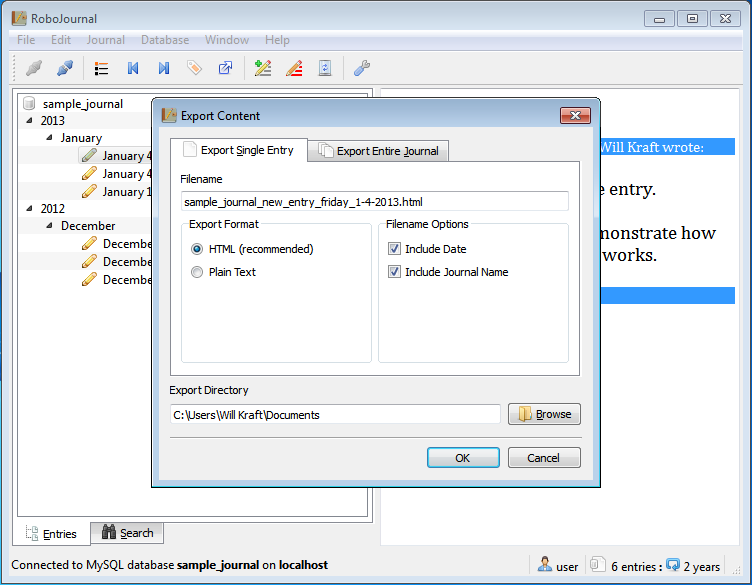
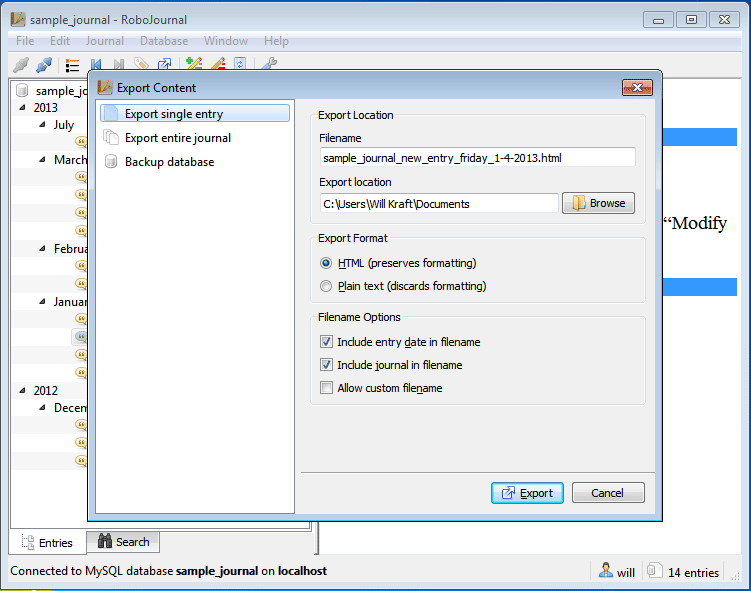
began revision on entry exporter documentation

Changed region(s): [[0.0, 0.0, 1.0, 1.0], [0.7044, 0.9538, 1.0, 1.0], [0.5819, 0.9846, 0.6431, 1.0]]

diff --git a/doc/export.html b/doc/export.html
@@ -46,168 +46,89 @@ discrete files on your hard drive; instead, they are abstract entities you work
 with through an intermediary program like RoboJournal. The intermediary program
 relays data between the client (your computer) and the actual journal database
 residing on the host. While the journal appears to be on your computer, this is
-not truly the case unless you are running the database server on localhost. </p>
+not truly the case unless you are running the database server on localhost.
+Since the journal databases are abstract entities, it is normally difficult to
+extract data from them unless you dump the entire database to disk as a file
+(the most common backup method). Fortunately, RoboJournal's Entry Exporter tool
+provides a way to directly extract journal content (in part or in whole) from
+its database in a form that can be easily backed up or copied.</p>
 
-<p>Since the journal databases are abstract entities, it is normally difficult
-to extract data from them unless you dump the entire database to disk as a file
-(the most common backup method). Fortunately, RoboJournal provides a way to
-directly extract journal content (in part or in whole) from its database in a
-form that can be easily backed up or copied.</p>
+<p>RoboJournal's entry exporter has been dramatically expanded and re-designed
+in version 0.5 (and later). The new design features a page-based interface,
+much like the new <a href="getting_started.html#create">Journal Creator</a> and
+the new <a href="preferences.html">Preferences</a> window introduced in version
+0.4. Unlike the old entry exporter (which separated functionality by use of a
+tabbed widget in a way that could potentially be confusing) the new design
+separates functionality by page; each page is dedicated to a a specific type of
+export operation. The Export Content window always displays the <strong>Export
+single entry</strong> page by default. </p>
 
-<h3 id="Formats">Export Formats</h3>
+<p>The entry exporter is invoked the same was as in previous versions. Select
+the entry you wish to export (or any entry, if you wish to export the entire
+journal) and click the Export Entry toolbar button:<img alt="Figure 1"
+src="img/screens/mw_export1.png" width="750" height="584"
+class="screenshot"><span class="caption">Figure 1: Select an entry (indicated
+by the large oval) and click the <strong>Export Content</strong> toolbar button
+to display the Export Content dialog.</span></p>
 
-<p>RoboJournal currently supports two export formats for your entry data. Both
-formats are universally-compatible with every operating system and many
-handheld devices as well. </p>
-
-<h4>HTML Export</h4>
-
-<p>HTML formatting causes the exported section(s) to be saved as HTML files
-that can be displayed in any web browser. Since RoboJournal already stores
-entries in HTML format, this option preserves all existing formatting.
-Therefore, it is the recommended format for both individual entries and full
-journal exports. The appearance and function of HTML output documents are
-controlled through <a href="preferences.html#export_settings">current
-settings</a> found in the RoboJournal Preferences. </p>
-
-<h4>Plain Text Export</h4>
-
-<p>Plain text export causes the exported section(s) to be formatted as plain
-text files meant to be read with a text editor like Vim or Notepad. RoboJournal
-automatically formats the text file for the operating system it is currently
-running on (such as using the proper linebreak character).</p>
-
-<h3 id="Anatomy">Export Options and Settings</h3>
-
-<p>The Export Content window interface consists of two tabs that are very
-similar to each other yet work very differently. The <strong>Export Single
-Entry</strong> tab contains options applicable to individual entries while the
-options on the <strong>Export Entire Journal</strong> tab affect the entire
-journal. The following tables list and describe the options found on the Export
-Content window based on the tab on which they are found. </p>
-
-<p>The <strong>Export Location</strong> field displays the folder where all
-exported entries are to be placed. This field is always visible no matter which
-tab is selected. </p>
-
-<h4><strong><em>Export Single Entry</em></strong> Tab</h4>
-
-<table border="0">
-  <col>
-  <col>
-  <tbody>
-    <tr>
-      <td class="left">Filename</td>
-      <td class="right">The <strong>Filename</strong> field contains the name
-        to be applied to the entry you have selected for export. The length and
-        complexity of the filename are determined by the options you currently
-        have selected. The base filename is determined by the title of the
-        entry to be exported. RoboJournal automatically strips out all
-        characters (like colons or forward/backward slashes) that would produce
-        an illegal filename on Windows or Unix if such characters are found in
-        the entry title. </td>
-    </tr>
-    <tr>
-      <td class="left">Export Format</td>
-      <td class="right">The options in this group determine what type of file
-        is produced by the export process. Clicking the <strong>HTML
-        (recommended)</strong> button causes RoboJournal to export the entry as
-        a web document while the <strong>Plain Text</strong> option produces a
-        plain text file.</td>
-    </tr>
-    <tr>
-      <td class="left">Include Date</td>
-      <td class="right">If checked, this option appends the entry date (plus
-        the day of the week on which it was written) to the filename (i.e.
-        sample_journal_new_entry_<span
-        style="color:#ff0000">friday_1-4-2013</span>.html). </td>
-    </tr>
-    <tr>
-      <td class="left">Include Journal Name</td>
-      <td class="right">If checked, this option includes the journal name in
-        the filename (i.e. <span
-        style="color:#ff0000">sample_journal_</span>new_entry_friday_1-4-2013.html).
-        This option is recommended because it makes it easier to remember which
-        journal an entry came from. </td>
-    </tr>
-  </tbody>
-</table>
-
-<h4><em>Export Entire Journal</em> Tab</h4>
-
-<table border="0">
-  <col>
-  <col>
-  <tbody>
-    <tr>
-      <td class="left">Filename</td>
-      <td class="right">The <strong>Filename</strong> field contains the name
-        to be applied to the entry you have selected for export. The length and
-        complexity of the filename are determined by the options you currently
-        have selected. RoboJournal uses the name of the journal as the base
-        filename. RoboJournal automatically strips out all characters (like
-        colons or forward/backward slashes) that would produce an illegal
-        filename on Windows or Unix if such characters are found in the entry
-        title. </td>
-    </tr>
-    <tr>
-      <td class="left">Export Format</td>
-      <td class="right">The options in this group determine what type of file
-        is produced by the export process. Clicking the <strong>HTML
-        (recommended)</strong> button causes RoboJournal to export the journal
-        as a web document while the <strong>Plain Text</strong> option produces
-        a plain text file. </td>
-    </tr>
-    <tr>
-      <td class="left">Include Export Date</td>
-      <td class="right">If checked, this option causes RoboJournal to append
-        the current date to the filename (i.e. sample_journal<span
-        style="color:#ff0000">_01-20-2013</span>.html). This option is ideal
-        for archival purposes because it allows you to see the journal as it
-        was at a specific point in time. This option also allows you to export
-        the journal multiple times without having to replace older
-      versions.</td>
-    </tr>
-    <tr>
-      <td class="left">Sort Ascending/Sort Descending</td>
-      <td class="right">This option controls the order in which entries are
-        placed in the exported document. Selecting the <strong>Sort
-        Ascending</strong> option causes the newest entry to be placed first
-        while <strong>Sort Descending</strong> does the opposite.</td>
-    </tr>
-  </tbody>
-</table>
+<p>The Export Content window is displayed:<img alt="Figure 1"
+src="img/screens/mw_export2.png" width="751" height="591"
+class="screenshot"><span class="caption">Figure 2: The Export Content window is
+displayed with the selected entry already pre-loaded.</span></p>
 
 <h2 id="Single">Exporting a Single Entry</h2>
 
-<p>Like the <a href="tags.html">Manage Tags</a> window, RoboJournal's export
-system is designed to target a specific entry (even when you use it to export
-an entire journal at once). The following procedure instructs you how to target
-a specific entry and bring up the Export Content window:</p>
-<ol class="list">
-  <li>Click to select the desired entry in the Chronological Entry List (the
-    selected entry is shown within the large oval in Figure 1).<img
-    alt="Figure 1" src="img/screens/mw_export1.png" width="750" height="584"
-    class="screenshot"><span class="caption">Figure 1: Select an entry and
-    click the <strong>Export Content</strong> toolbar button to display the
-    Export Content dialog.</span></li>
-  <li>Click the <strong>Export Content</strong> toolbar button (indicated by
-    the small circle in Figure 1).</li>
-  <li>The Export Content window is displayed:<img alt="Figure 2"
-    src="img/screens/mw_export2.png" width="752" height="585"
-    class="screenshot"><span class="caption">Figure 2: The Export Content
-    window is always superimposed over the main window.</span></li>
-  <li>Ensure that all <strong>Export Format</strong> and <strong>Filename
-    Options</strong> settings (indicated by the red oval in Figure 3) are
-    configured appropriately and change them if necessary.<img alt="Figure 3"
-    src="img/screens/mw_export3.png" width="752" height="585"
-    class="screenshot"><span class="caption">Figure 3: The options indicated by
-    the red circle have a direct impact on the predetermined Filename.
-  </span></li>
-  <li>Click the <strong>OK</strong> button to continue (a confirmation message
-    is displayed if the export operation is successful).<span
-    class="caption"></span></li>
-</ol>
+<p>Unless you have selected a different page, the Export Content window should
+already be configured to export the entry you previously selected immediately
+before clicking the <strong>Export Content</strong> toolbar button on the
+RoboJournal main window. <img alt="Figure 3"
+src="img/screens/export_single.png" width="576" height="453"
+class="screenshot"><span class="caption">Figure 3: The <strong>Export single
+entry</strong> page allows you to export the current (selected) entry from the
+main window.</span></p>
+
+<p>If you need to change any of the settings (including file type or export
+destination), you must do so before beginning the export operation. Unlike
+other procedures, further user input is completely optional; you only need to
+click the <strong>Export</strong> button (as indicated by the red oval in
+Figure 3) to complete the process using the current options. The current
+options determine the type and properties of the file produced by the next
+export operation.</p>
+
+<p>The following table explains each option on the <strong>Export single
+entry</strong> page in greater detail:</p>
+
+<table border="0">
+  <col>
+  <col>
+  <tbody>
+    <tr>
+      <td class="left">Filename</td>
+      <td class="right">The <strong>Filename</strong> field determines what
+        name the entry content is saved under on your hard drive.</td>
+    </tr>
+    <tr>
+      <td class="left">Export Location</td>
+      <td class="right"></td>
+    </tr>
+    <tr>
+      <td class="left">Export Format</td>
+      <td class="right"></td>
+    </tr>
+    <tr>
+      <td class="left">Include entry date in filename</td>
+      <td class="right"></td>
+    </tr>
+    <tr>
+      <td class="left">Include journal in filename</td>
+      <td class="right"></td>
+    </tr>
+    <tr>
+      <td class="left">Allow custom filename</td>
+      <td class="right"></td>
+    </tr>
+  </tbody>
+</table>
 
 <h2 id="Multi">Exporting the Entire Journal</h2>
 
@@ -217,32 +138,7 @@ alternative method (manually exporting the journal one entry at a time) because
 it loops through the entire journal and appends each entry to a single file.
 </p>
 
-<p>The procedure for exporting the entire journal is very much the same as
-exporting a single entry:</p>
-<ol class="list">
-  <li>Click to select an entry (indicated by the oval in Figure 4) from the
-    Chronological Entry List. Unlike in the previous procedure, it does not
-    matter which entry you choose since you intend to export the entire
-    journal.<img alt="Figure 4" src="img/screens/mw_export1.png" width="750"
-    height="584" class="screenshot"><span class="caption">Figure 4: You can
-    select any entry if you intend to export the entire journal.</span></li>
-  <li>Click the <strong>Export Content</strong> toolbar button (indicated by
-    the small circle in Figure 4). The Export Content window is displayed.</li>
-  <li>Click the <strong>Export Entire Journal</strong> tab (indicated by the
-    oval in Figure 5) to switch to it.<img alt="Figure 5"
-    src="img/screens/mw_export5.png" width="751" height="585"
-    class="screenshot"><span class="caption">Figure 5: The procedure for
-    exporting the entire journal is very similar to that of exporting a single
-    entry until you get to this point.</span></li>
-  <li>Check the circled options in Figure 6 to ensure they are set properly.
-    Change them if necessary.<img alt="Figure 7"
-    src="img/screens/mw_export6.png" width="751" height="585"
-    class="screenshot"><span class="caption">Figure 7: At first glance, these
-    options look similar to those in Figure 3 but these affect the entire
-    journal rather than a single entry.</span></li>
-  <li>Click the <strong>OK</strong> button to continue. A confirmation message
-    is displayed if the export operation is successful. </li>
-</ol>
+<h2>Backing Up the Database</h2>
 
 <div id="footer_container">
 
